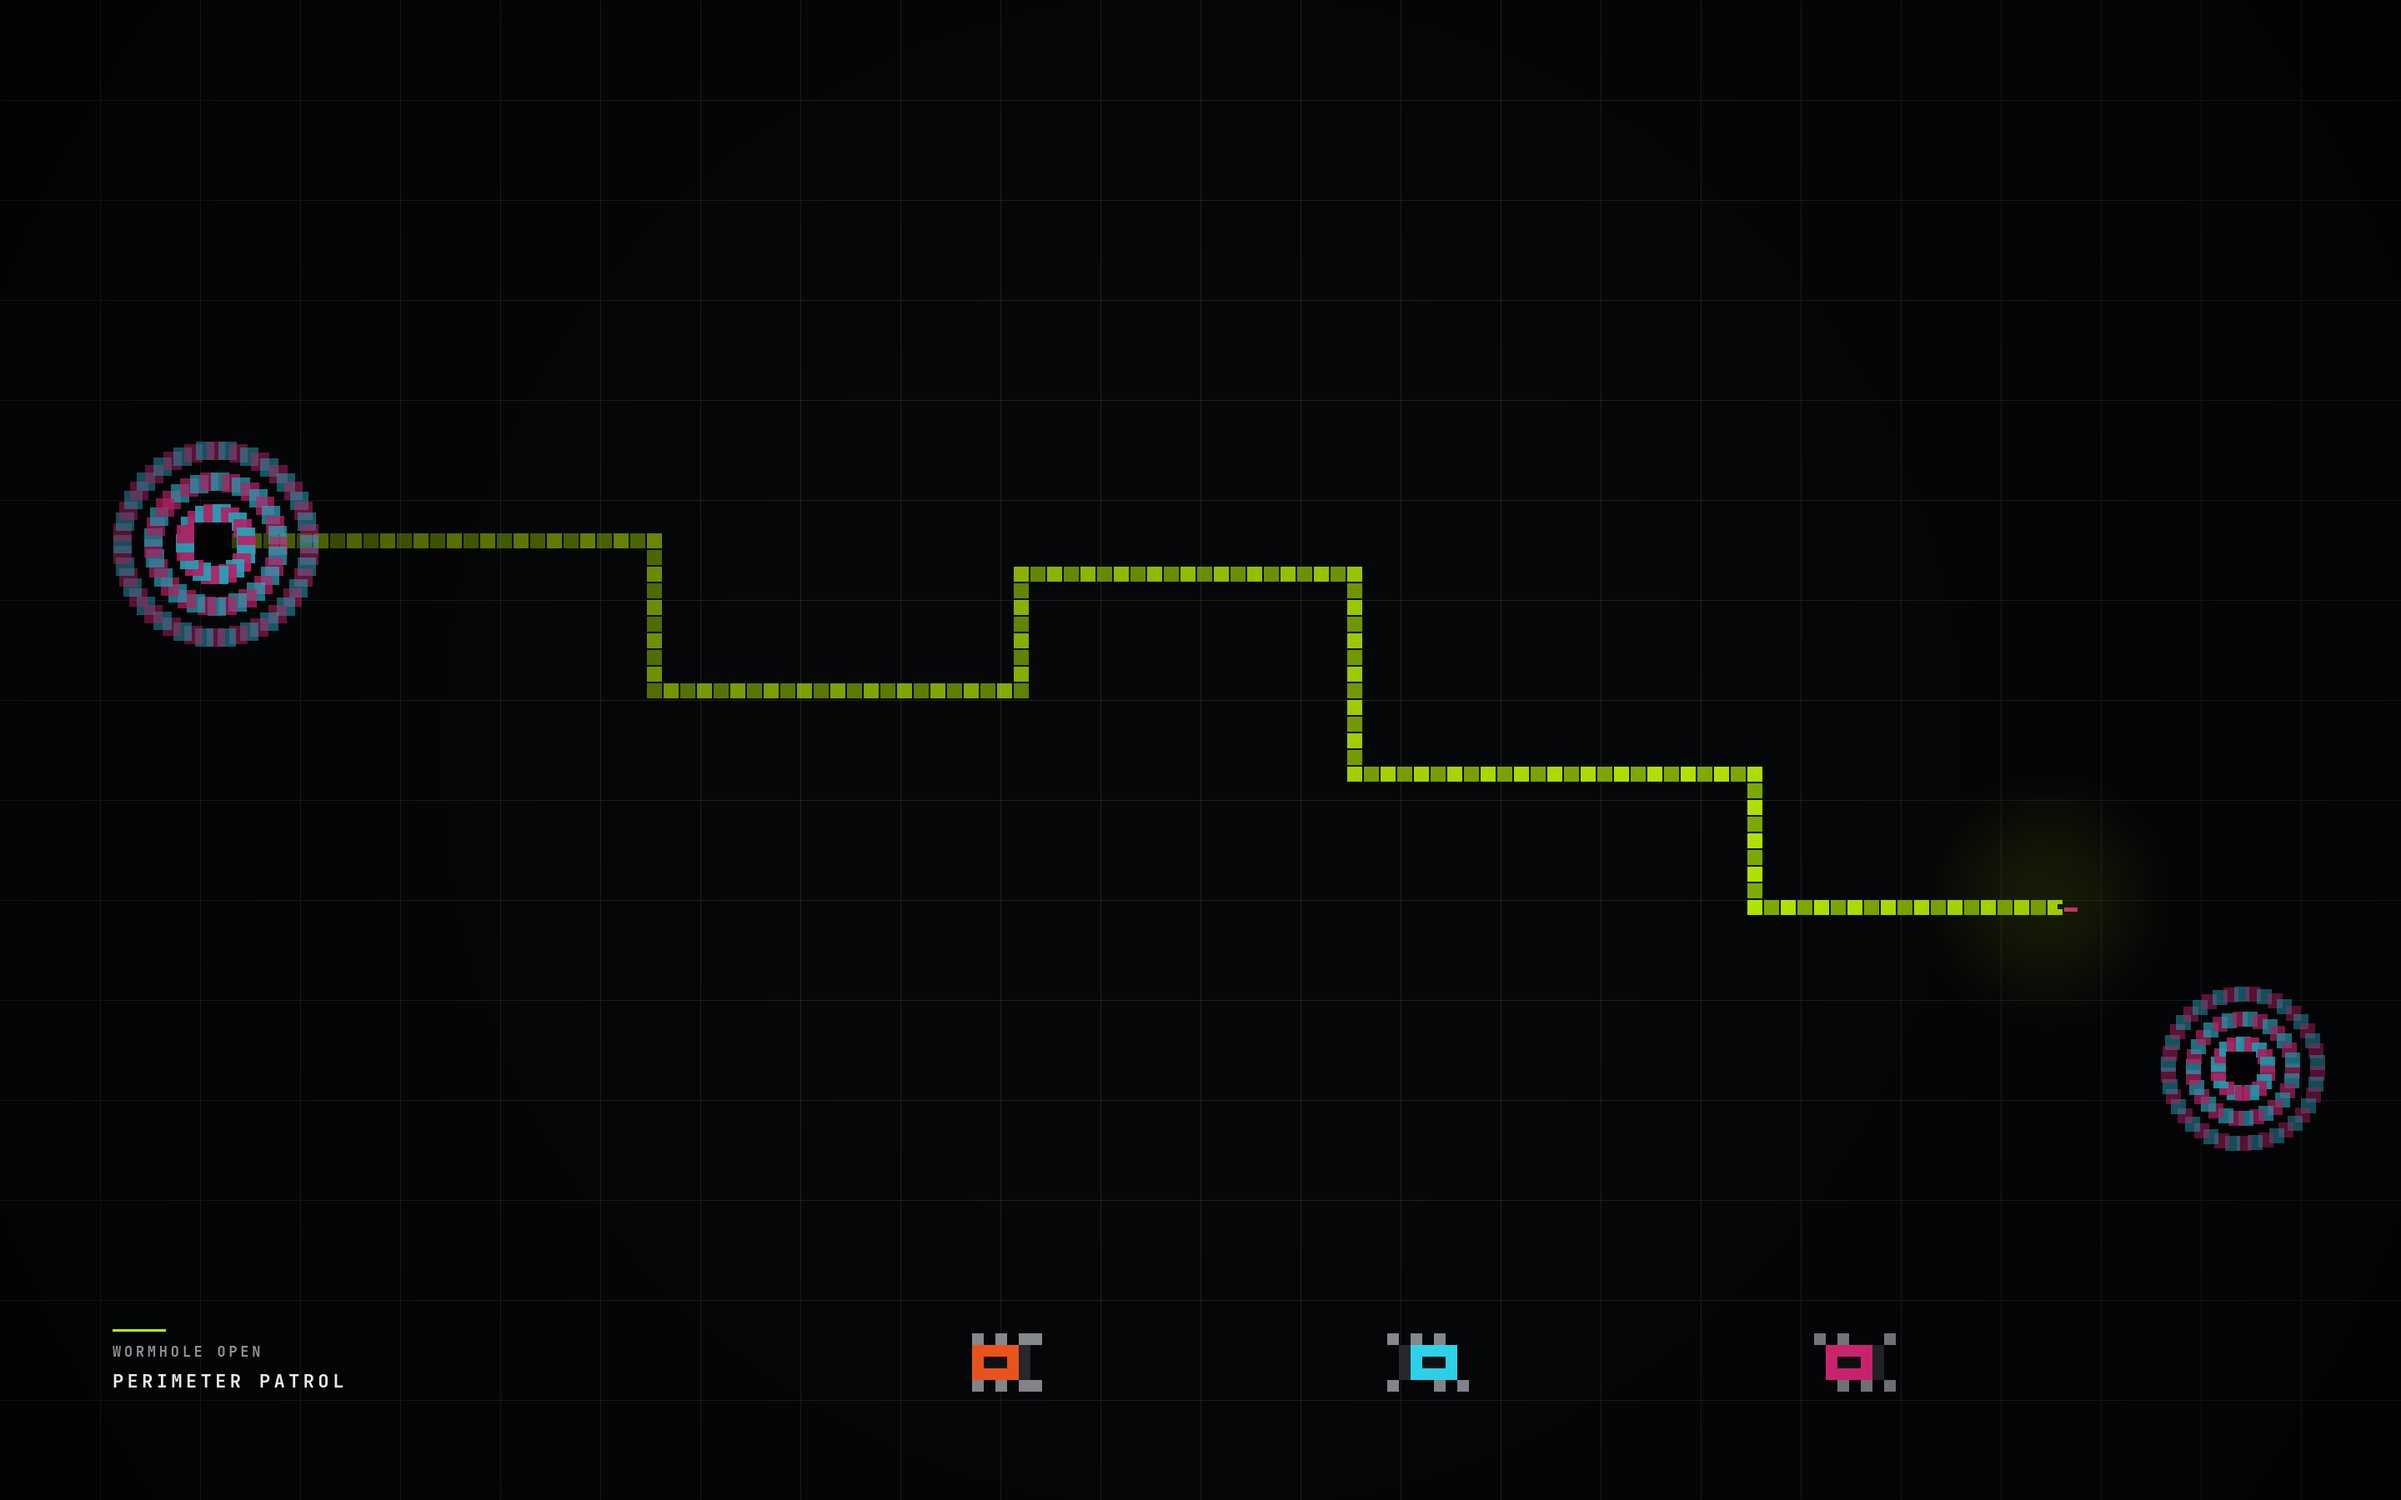
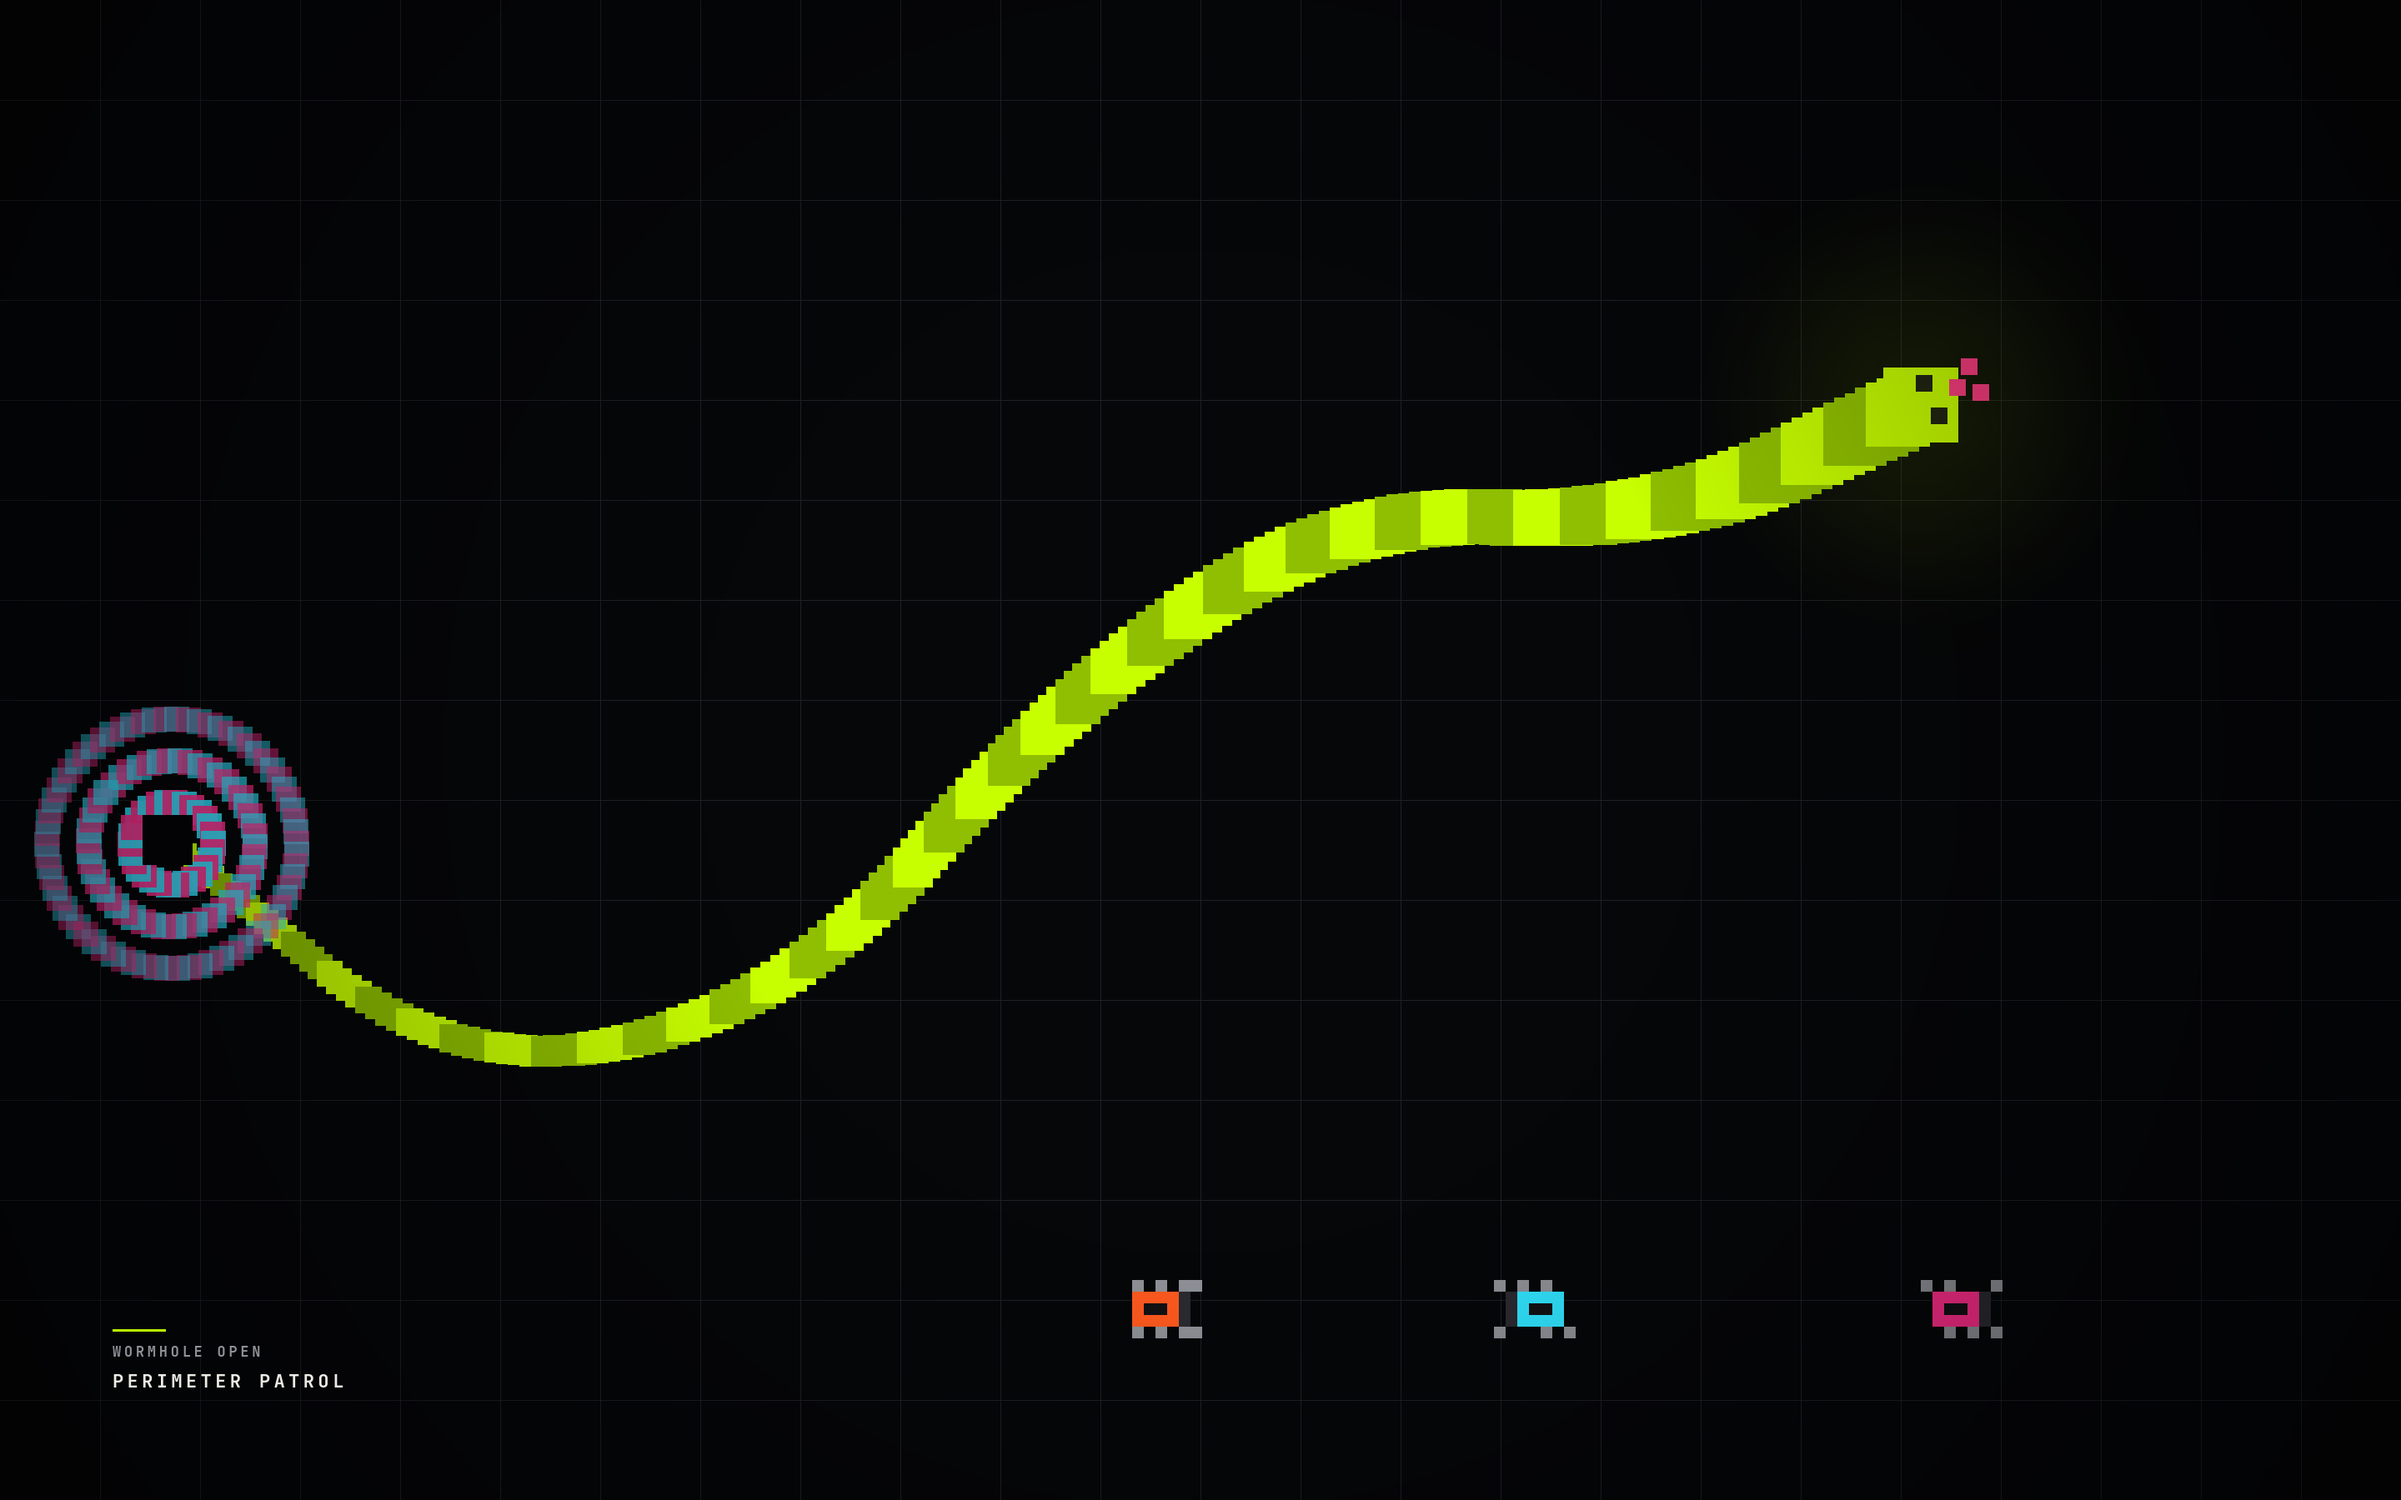
Redraw the snake as a creature rather than a grid trace
The site pins its snake to the grid and runs it fourteen segments long,
which works at 8px but at 2880px reads as a dotted circuit trace. It now
follows a smoothed curve, sampled densely enough that the body is solid,
and keeps what makes it the site's snake: two alternating greens, width
falling away to the tail, a wider head with eyes on the leading side and a
forked tongue.

The neck width is now stated in pixels instead of being derived from the
grid step. Two earlier edits to that step silently failed to match and
reported success regardless, which is how the body stayed 25px wide on a
2880px canvas while looking like a deliberate choice.

diff --git a/tools/gen_backgrounds.py b/tools/gen_backgrounds.py
@@ -213,37 +213,108 @@ def scene_lattice(c, rng):
              S.worker_colors(S.PALETTE[0], S.PALETTE[3]), W_PX)
 
 
+def _chaikin(points, iterations=3):
+    """Round the corners of a polyline (Chaikin). The site's snake turns at
+    right angles because it is pinned to the grid and only 14 segments long; at
+    wallpaper scale those corners read as a circuit trace, so they get eased."""
+    for _ in range(iterations):
+        out = [points[0]]
+        for (x0, y0), (x1, y1) in zip(points, points[1:]):
+            out.append((x0 * 0.75 + x1 * 0.25, y0 * 0.75 + y1 * 0.25))
+            out.append((x0 * 0.25 + x1 * 0.75, y0 * 0.25 + y1 * 0.75))
+        out.append(points[-1])
+        points = out
+    return points
+
+
+def _resample(points, spacing):
+    """Even points along a polyline, so the body is continuous rather than a
+    dotted line: segments overlap instead of leaving a gap at every step."""
+    out = [points[0]]
+    carry = 0.0
+    for (x0, y0), (x1, y1) in zip(points, points[1:]):
+        seg = ((x1 - x0) ** 2 + (y1 - y0) ** 2) ** 0.5
+        if seg <= 0:
+            continue
+        t = carry
+        while t < seg:
+            f = t / seg
+            out.append((x0 + (x1 - x0) * f, y0 + (y1 - y0) * f))
+            t += spacing
+        carry = t - seg
+    out.append(points[-1])
+    return out
+
+
 def scene_patrol(c, rng):
-    """The snake working the lines end to end, a wormhole open at either end."""
+    """The snake, full length, winding across the frame out of a wormhole.
+
+    A redesign rather than the site's scene: on the site the snake is pinned to
+    the grid and fourteen segments long, which at 2880px reads as a dotted
+    circuit trace rather than a creature. Here it keeps everything that makes
+    it the site's snake — the two alternating greens, the width falling away to
+    the tail, the wider head with eyes on the leading side and a forked tongue —
+    but follows a smoothed curve and is sampled densely enough to be solid.
+    """
     w, h = c.w, c.h
-    start = (snap(w * 0.10), snap(h * 0.34))
-    x, y = start
-    body = [(x, y)]
-    # A serpentine that turns only on grid lines, sweeping the whole frame.
-    legs = [(1, 0, 26), (0, 1, 9), (1, 0, 22), (0, -1, 7), (1, 0, 20),
-            (0, 1, 12), (1, 0, 24), (0, 1, 8), (1, 0, 18)]
-    for dx, dy, count in legs:
-        for _ in range(count):
-            x += dx * SNAKE
-            y += dy * SNAKE
-            body.append((x, y))
+
+    # A winding path rising left to right, as fractions of the frame.
+    control = [(0.07, 0.56), (0.19, 0.72), (0.33, 0.67), (0.44, 0.47),
+               (0.56, 0.34), (0.69, 0.35), (0.80, 0.27)]
+    coarse = [(fx * w, fy * h) for fx, fy in control]
+
+    # Neck width in pixels, stated outright rather than derived from the
+    # grid step: this is a drawn creature, not a grid walker, and tying it
+    # to the step is what left it 25px wide on a 2880px canvas.
+    girth = 78
+    body = _resample(_chaikin(coarse, 4), girth * 0.18)
+    body.reverse()                      # index 0 is the head, as on the site
     n = len(body)
-    for i, (bx, by) in enumerate(body):
-        taper = 0.45 + 0.55 * (i / n)
-        col = "#8fbf00" if i % 2 else S.PALETTE[0]
-        c.rect(bx, by, SNAKE - 2, SNAKE - 2, col, taper)
-    hx, hy = body[-1]
-    c.rect(hx, hy, SNAKE - 2, SNAKE - 2, S.PALETTE[0])
-    c.rect(hx + SNAKE // 2 + 2, hy + 5, 6, 6, S.BG)             # eye
-    c.rect(hx + SNAKE, hy + SNAKE // 2 - 1, 16, 5, "#ff2e8b")   # tongue
-    c.disc(hx, hy, 170, S.PALETTE[0], 0.11)
 
-    c.wormhole(start[0], start[1] + SNAKE // 2, 7.5, rng)
-    c.wormhole(snap(w * 0.93), snap(h * 0.72), 6.0, rng)
+    # Tail first, so each blob is overlapped by the thicker one ahead of it.
+    for i in range(n - 1, 0, -1):
+        bx, by = body[i]
+        taper = 1 - (i / max(1, n - 1)) * 0.68   # full at the neck, thin at the tip
+        size = max(3, round(girth * taper))
+        # Scales band along the body; alternating per sample at this density
+        # would just read as noise.
+        col = "#8fbf00" if (i // 4) % 2 else S.PALETTE[0]
+        c.rect(bx - size / 2, by - size / 2, size, size, col)
 
-    # Beetles keeping well clear of it.
+    # Head: a little wider than the neck.
+    hx, hy = body[0]
+    hs = round(girth * 1.15)
+    c.rect(hx - hs / 2, hy - hs / 2, hs, hs, S.PALETTE[0])
+
+    # Facing, averaged over a few samples so the curve does not throw it.
+    ahead = body[min(8, n - 1)]
+    vx, vy = hx - ahead[0], hy - ahead[1]
+    mag = max(1e-6, (vx * vx + vy * vy) ** 0.5)
+    dx, dy = vx / mag, vy / mag
+    px_, py_ = -dy, dx
+    k = girth / 8.0
+    eye = max(3, round(2.0 * k))
+
+    for side in (1, -1):
+        c.rect(hx + dx * 1.5 * k + px_ * side * 2.2 * k - eye / 2,
+               hy + dy * 1.5 * k + py_ * side * 2.2 * k - eye / 2,
+               eye, eye, "#121215")
+
+    tx, ty = hx + dx * (hs / 2 + k * 0.4), hy + dy * (hs / 2 + k * 0.4)
+    c.rect(tx - eye / 2, ty - eye / 2, eye, eye, "#ff2e8b")
+    for fork in (1, -1):
+        c.rect(tx + dx * 2.4 * k + px_ * fork * 1.7 * k - eye / 2,
+               ty + dy * 2.4 * k + py_ * fork * 1.7 * k - eye / 2,
+               eye, eye, "#ff2e8b")
+
+    c.disc(hx, hy, 300, S.PALETTE[0], 0.09)
+
+    # The hole the tail is still coming out of.
+    c.wormhole(coarse[0][0], coarse[0][1], 10.0, rng)
+
+    # Beetles getting out of the way, well clear of the caption.
     for i in range(3):
-        c.sprite(S.BUG_RUN[i % 3], snap(w * (0.40 + 0.18 * i)), snap(h * 0.88),
+        c.sprite(S.BUG_RUN[i % 3], snap(w * (0.46 + 0.17 * i)), snap(h * 0.86),
                  S.bug_colors(S.PALETTE[(i + 1) % len(S.PALETTE)]), B_PX, flip=(i == 1))
 
 

diff --git a/README.md b/README.md
@@ -78,7 +78,7 @@ Six, in `backgrounds/`, generated at 2880×1800. Cycle with
 | `02-abduction.png` | The saucer has a beetle off the ground; the rest scatter |
 | `03-crew.png` | All nine, mid-shift, across three lanes |
 | `04-lattice.png` | The finished snowflake, centred and lit |
-| `05-patrol.png` | The snake working the lines, a wormhole open at either end |
+| `05-patrol.png` | The snake winding across the frame, out of an open wormhole |
 | `06-off-shift.png` | The cat, the lamb and the devil, each in their own light |
 
 They are generated, not hand-drawn — `tools/gen_backgrounds.py` renders the
